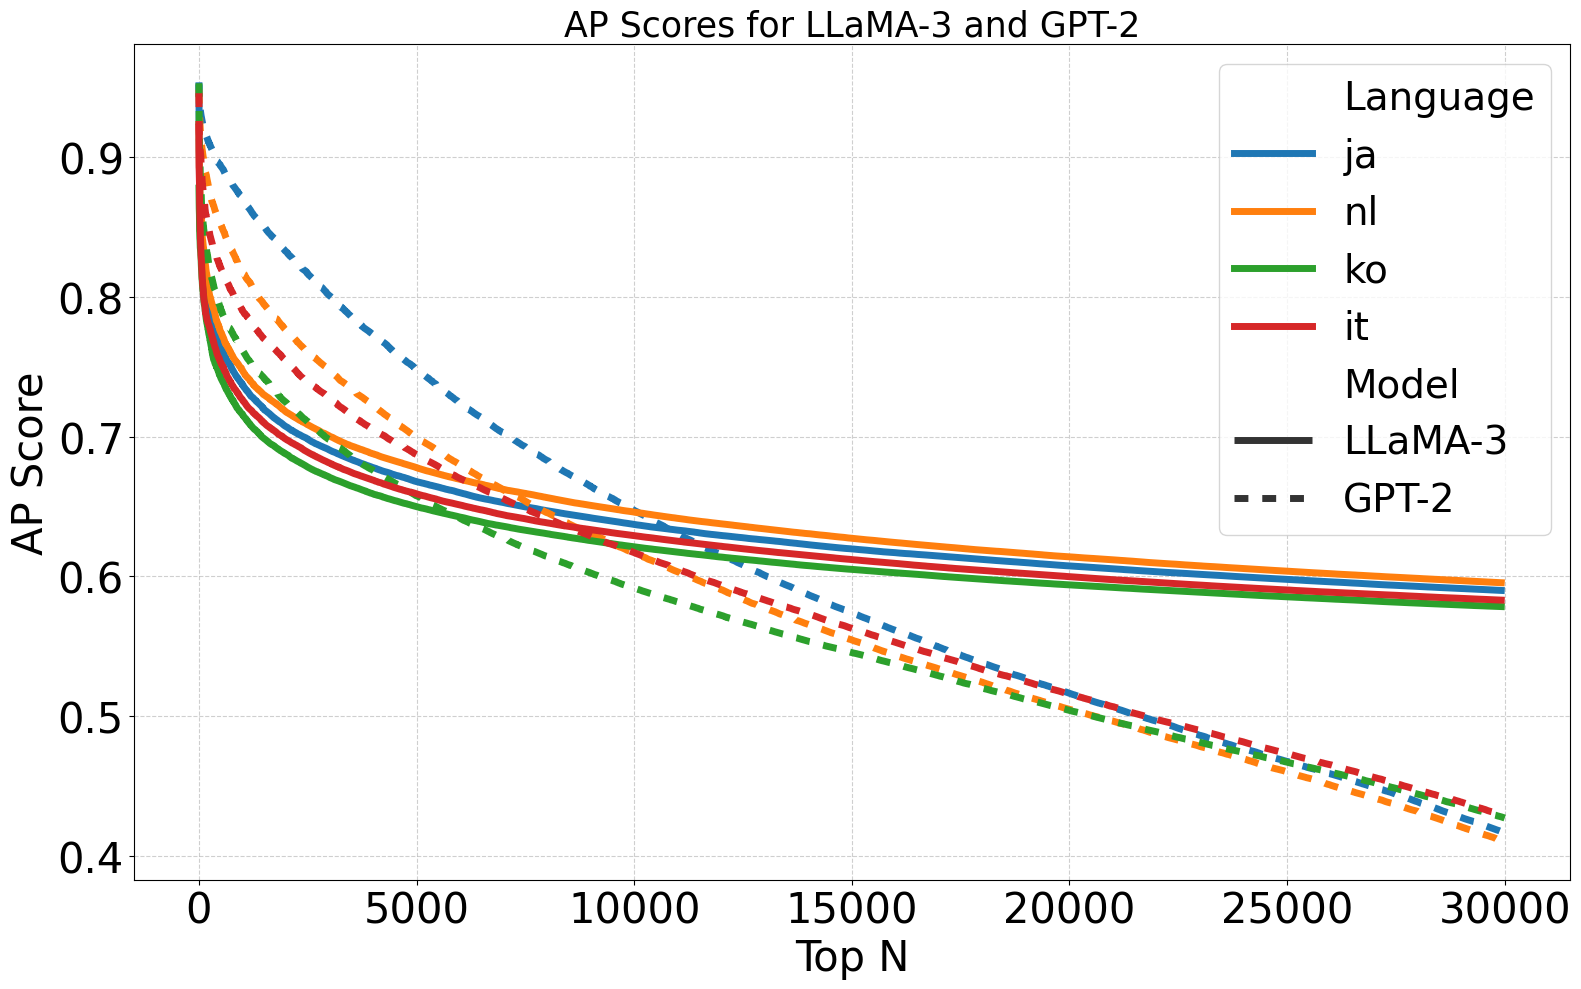
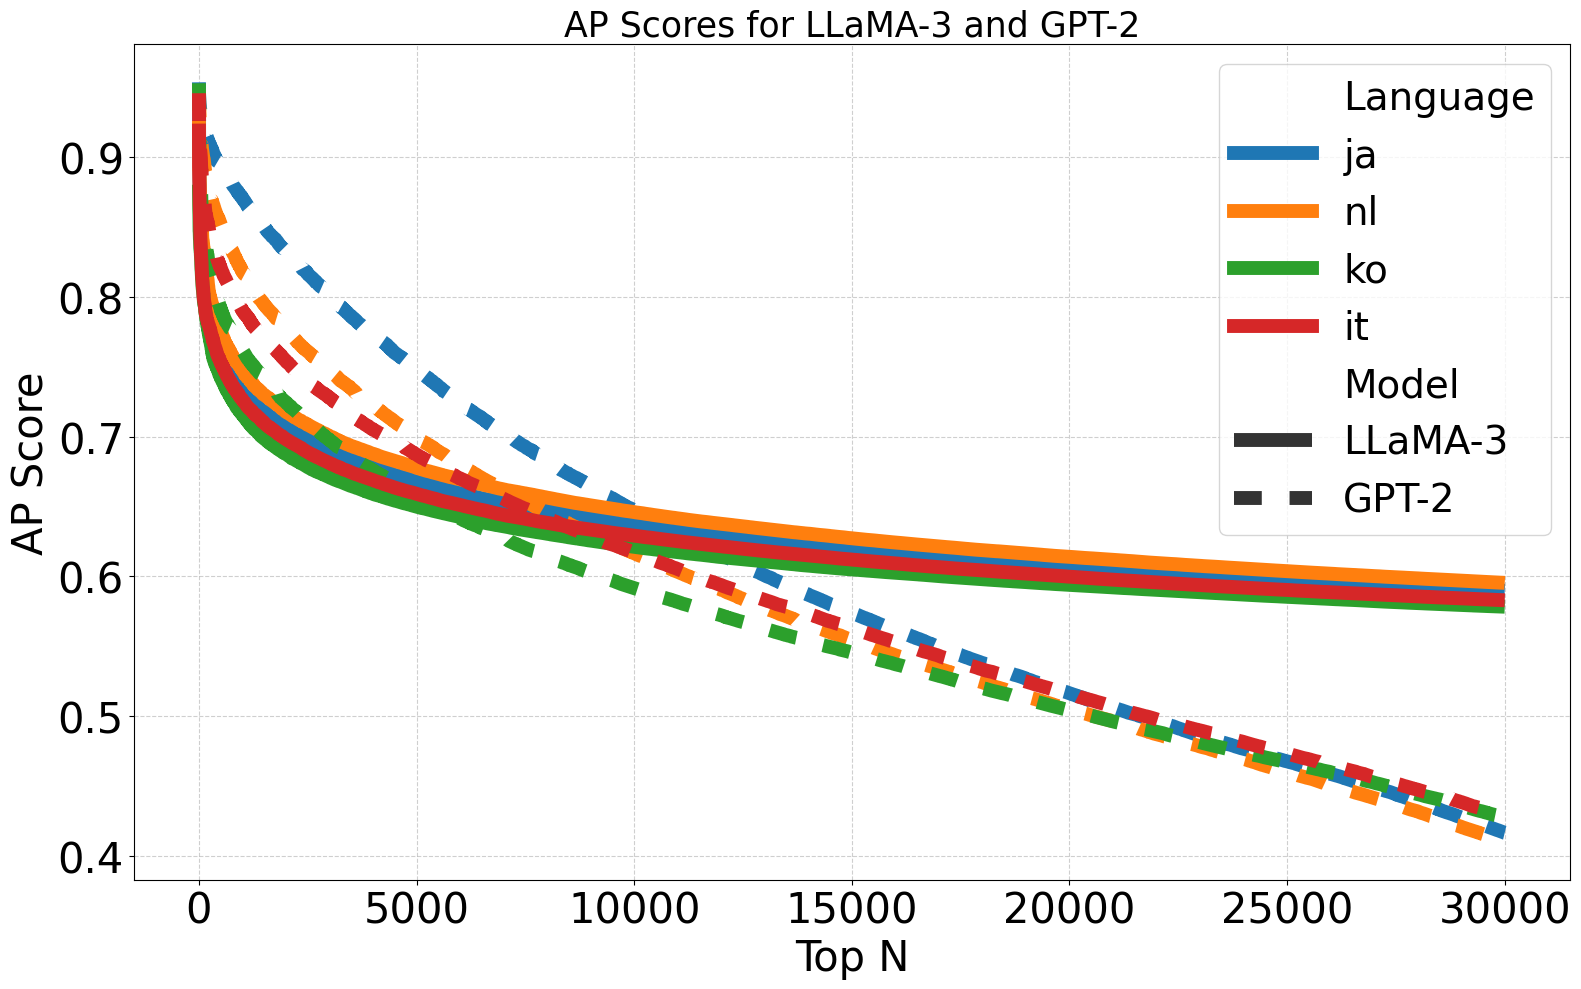
update/image

diff --git a/activated_neuron/new_neurons/intervention/hidden_state_sim/AUC/line_plot_experts.py b/activated_neuron/new_neurons/intervention/hidden_state_sim/AUC/line_plot_experts.py
@@ -53,7 +53,7 @@ for L2 in L2_list:
 
 # convert pandas DataFrame
 df = pd.DataFrame(data)
-
+df.index = df.index + 1
 # AP_Score を数値に変換
 df['AP_Score'] = pd.to_numeric(df['AP_Score'], errors='coerce')
 
@@ -76,7 +76,7 @@ sns.lineplot(
     # dashes=False,
     dashes={"GPT-2": [2, 2], "LLaMA-3": [1, 0]},
     palette=sns.color_palette("tab10"),  # カラーパレット設定
-    linewidth=5,
+    linewidth=10,
     alpha=1,
 )
 
